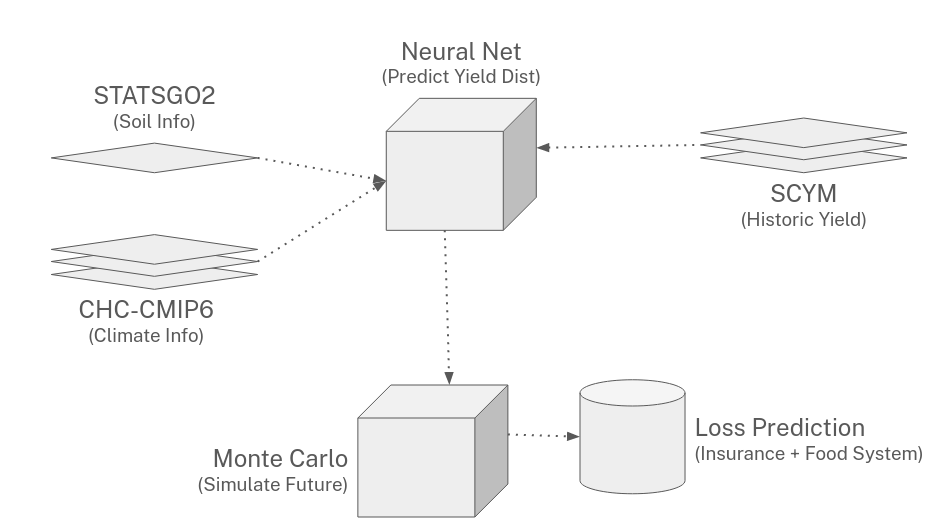
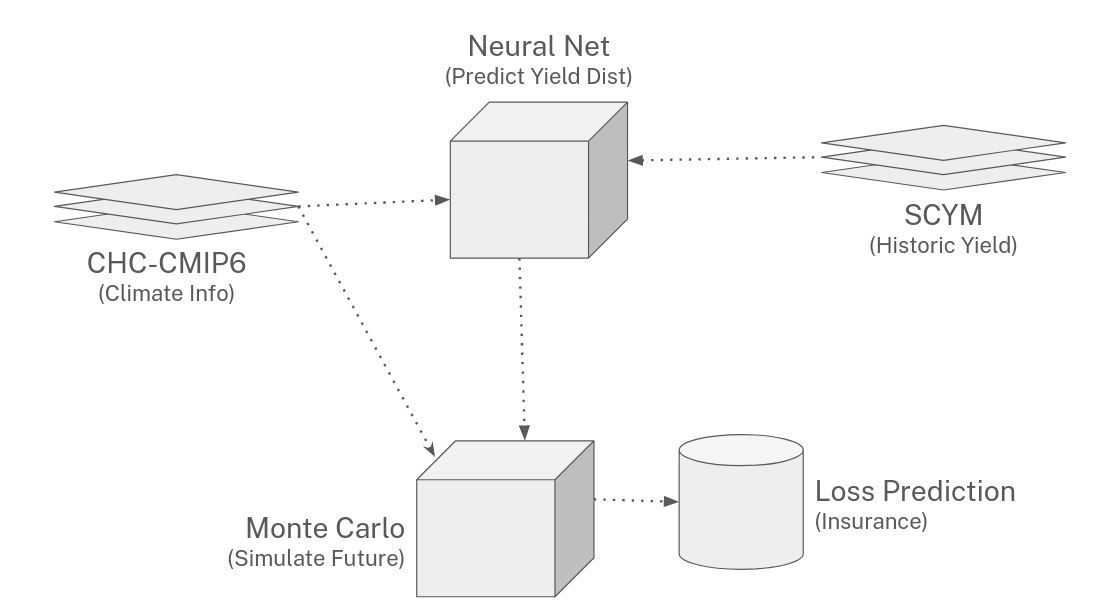
Through intro and background.

diff --git a/paper/viz/index.html b/paper/viz/index.html
@@ -11,7 +11,7 @@
         <link rel="stylesheet" href="/third_party/tabby.css">
         <link rel="stylesheet" href="/third_party/tiny_slider.css">
 
-        <title>Climate-Driven Doubling of Maize Loss Probability in USA Crop Insurance: Spatiotemporal Prediction and Possible Policy Responses</title>
+        <title>Climate Change to Double U.S. Crop Insurance Claims for Maize</title>
 
         <link rel="stylesheet" href="base.css?v=EPOCH">
     </head>
@@ -41,41 +41,98 @@
         </py-config>
 
         <header>
-            <h1>Climate-Driven Doubling of Maize Loss Probability in USA Crop Insurance: Spatiotemporal Prediction and Possible Policy Responses</h1>
+            <h1>Climate Change to Double U.S. Crop Insurance Claims for Maize</h1>
+            <div class="body-text">
+                
+            </div>
         </header>
         
         <nav>
             <ul data-tabs>
-                <li><a data-tabby-default href="#introduction">Introduction</a></li>
+                <li><a data-tabby-default href="#introduction">Intro</a></li>
+                <li><a href="#background">Background</a></li>
                 <li><a href="#methods">Methods</a></li>
                 <li><a href="#results">Results</a></li>
                 <li><a href="#discussion">Discussion</a></li>
                 <li><a href="#conclusion">Conclusion</a></li>
+                <li><a href="#about">About</a></li>
+                <li><a href="#settings">Settings</a></li>
             </ul>
         </nav>
         
         <main class="presentation">
             <section id="introduction">
-                <h2>Introduction</h2>
+                <h2>🌽 Corn is in trouble.</h2>
+                <div class="body-text">
+                    <p>
+                        <span class="emphasis">Climate change threatens the future of corn.</span> Studies expect planet-wide maize yields to drop by up to 24% by the end of this century (<a href="https://www.nature.com/articles/s43016-021-00400-y" target="_blank">Jägermeyr et al. 2021</a>). Why might this happen? Climate change alters growing conditions (<a href="https://www.nature.com/articles/s41597-024-03074-w">Williams et al 2024</a>) and can include a higher frequency and severity of stressful weather (<a href="https://www.nature.com/articles/nclimate1633" target="_blank">Dai 2013</a>). Of course, all of this can impact farmer revenue (<a href="https://farmdocdaily.illinois.edu/2023/07/extreme-heat-and-kansas-farm-income.html" target="_blank">Sajid et al 2023</a>). However, these changes can also challenge the institutions tasked with protecting and helping those growers (<a href="https://farmpolicynews.illinois.edu/2024/02/crop-insurance-costs-projected-to-jump-29/" target="_blank">Hanrahan 2024</a>).
+                    </p>
+                    <p>
+                        <span class="emphasis">What might this future look like and how can we prepare for it?</span> This "explorable explanation" (<a href="http://worrydream.com/ExplorableExplanations/" target="_blank">Victor 2011</a>) walks you through an analysis of future maize yields from the perspective of one of these institutions: the US Federal Crop Insurance Program. This crucial resource for farmers and the broader US food system is increasingly threatened by climate change (<a href="https://www.nature.com/articles/ncomms6989" target="_blank">Ray et al 2015</a>). In this online tool, we will go step by step to build and then play with artifical intelligence to understand how we might respond to these threats:
+
+                        <ul>
+                            <li>We will predict the probability and severity of maize loss within the <a href="https://www.ncei.noaa.gov/access/monitoring/reference-maps/corn-belt" target="_blank">U.S. Corn Belt</a> (<a href="https://www.ncei.noaa.gov/access/monitoring/reference-maps/corn-belt" target="_blank">NCEI</a>) by simulating the Multiple Peril Crop Insurance Program, "the oldest and most common form of federal crop insurance" (<a href="https://www.policyarchive.org/download/4403" target="_blank">Chite 2006</a>).</li>
+                            <li>We will use those results to see how insurer risk will change under the Yield Protection (YP) plan. This covers farmers in the event of yield losses due to an insured cause (<a href="https://farms.extension.wisc.edu/articles/crop-insurance-policy-types/" target="_blank">Reuss</a>).</li>
+                            <li>We will contrast those simulations to an alternative which imagines a future where climate change stops today. This will let us quantitatively highlight the insurer-relevant effects of climate change in the 2030 and 2050 timeframes.</li>
+                            <li>We will use these data to design possible policy changes to help mitigate and enable adaptation to the specific climate-fueled risks we observe in our results.</li>
+                        </ul>
+
+                        You don't need to install any special software. We can do all of this from within your web browser! All that said, this online experience complements a more traditional <a href="">scientific paper (preprint)</a> which you may also review.
+                    </p>
+
+                    <p class="next-button-holder">
+                        <a href="#background" tab="background" class="advance-button">Let's get started >></a>
+                    </p>
+
+                    <details class="citations">
+                        <summary>Citations for intro</summary>
+                        <p>
+                            The citations for the links on this introduction section ("corn is in trouble") are as follows:
+                            <ul>
+                                <li>R. Chite, “Agricultural Issues in the 110th Congress.” Congressional Research Service, Dec. 11, 2006. [Online]. Available: https://www.policyarchive.org/download/4403</li>
+                                <li>A. Dai, “Increasing drought under global warming in observations and models,” Nature Clim Change, vol. 3, no. 1, pp. 52–58, Jan. 2013, doi: 10.1038/nclimate1633.</li>
+                                <li>R. Hanrahan, “Crop Insurance Costs Projected to Jump 29%.” University of Illinois, Feb. 15, 2024. [Online]. Available: https://farmpolicynews.illinois.edu/2024/02/crop-insurance-costs-projected-to-jump-29/</li>
+                                <li>J. Jägermeyr et al., “Climate impacts on global agriculture emerge earlier in new generation of climate and crop models,” Nat Food, vol. 2, no. 11, pp. 873–885, Nov. 2021, doi: 10.1038/s43016-021-00400-y.</li>
+                                <li>NCEI, “Corn Belt.” NOAA, 2024. [Online]. Available: https://www.ncei.noaa.gov/access/monitoring/reference-maps/corn-belt</li>
+                                <li>D. K. Ray, J. S. Gerber, G. K. MacDonald, and P. C. West, “Climate variation explains a third of global crop yield variability,” Nat Commun, vol. 6, no. 1, p. 5989, Jan. 2015, doi: 10.1038/ncomms6989.</li>
+                                <li>S. Reuss, “Crop Insurance Policy Types.” [Online]. Available: https://farms.extension.wisc.edu/articles/crop-insurance-policy-types/</li>
+                                <li>O. Sajid, A. Ortiz-Bobea, J. Ifft, and V. Gauthier, “Extreme Heat and Kansas Farm Income.” Farmdoc Daily of Department of Agricultural and Consumer Economics, University of Illinois at Urbana-Champaign, Jul. 26, 2023. [Online]. Available: https://farmdocdaily.illinois.edu/2023/07/extreme-heat-and-kansas-farm-income.html</li>
+                                <li>B. Victor, “Explorable Explanations.” Bret Victor, Mar. 10, 2011. [Online]. Available: http://worrydream.com/ExplorableExplanations/</li>
+                                <li>E. Williams, C. Funk, P. Peterson, and C. Tuholske, “High resolution climate change observations and projections for the evaluation of heat-related extremes,” Sci Data, vol. 11, no. 1, p. 261, Mar. 2024, doi: 10.1038/s41597-024-03074-w.</li>
+                            </ul>
+                        </p>
+                    </details>
+                </div>
+            </section>
+            <section id="background">
+                <h2>📚 First, some background.</h2>
+                <div class="body-text separated">
+                    Before we build that artifical intelligence, we have to get some background information about crop insurance out of the way. We will also review a diagram describing the model that we will construct. Use the previous and next buttons below to navigate through some short slides with that preliminary walkthrough.
+                </div>
                 <div class="intro-slider">
                     <div>
                         <h3>
                             Some terms:
                         </h3>
+                        <div class="body-text">As with any government program, there are some acronyms. Here is some vocabulary to have in mind as we make our way forward:</div>
                         <div class="block-quote">
                             <ul>
-                                <li><span class="vocab">MPCI</span>: Multi-peril crop insurance. The largest in the US (444 million acres) that typically covers up to 75% of an APH with some areas allowed to cover up to 85%.</li>
-                                <li><span class="vocab">APH</span>: Actual production history. Typically the average of the last ten years of crop yields.</li>
-                                <li><span class="vocab">Catastrophic loss</span>: MPCI loss where the govenment steps in. Typically 25% loss.</li>
-                                <li><span class="vocab">Shallow loss</span>: Other loss which may still (typically) incur a loss. Typically 15% loss.</li>
-                                <li><span class="vocab">508h</span>: Process by which new insurance products can be suggested like supplemental policies covering 85% to 75%.</li>
+                                <li><span class="vocab">MPCI</span>: Multi-peril crop insurance. Covering 494 million acres (<a href="https://www.ers.usda.gov/topics/farm-practices-management/risk-management/crop-insurance-at-a-glance/" target="_blank">Tsiboe and Turner 2023</a>), this is the most common program in the US (<a href="https://www.policyarchive.org/download/4403" target="_blank">Chite 2006</a>) that typically covers up to 75% of an APH with some areas allowed to cover up to 85% (<a href="https://smallgrains.wsu.edu/understanding-the-price-side-of-revenue-crop-insurance/" target="_blank">Osiensky 2021</a>).</li>
+                                <li><span class="vocab">APH</span>: Actual production history. For our purposes, this is the average of the last ten years of crop yields (<a href="https://www.rma.usda.gov/-/media/RMA/Publications/Risk-Management-Publications/rma_glossary.ashx?la=en">FCIC 2020</a>).</li>
+                                <li><span class="vocab">Catastrophic loss</span>: MPCI loss where the govenment typically steps in. Typically 25% loss meaning it kicks in when yields drop below 75% of APH (<a href="https://smallgrains.wsu.edu/understanding-the-price-side-of-revenue-crop-insurance/" target="_blank">Osiensky 2021</a>; <a href="https://www.extension.iastate.edu/agdm/crops/html/a1-44.html" target="_blank">Plastina and Johnson 2022</a>).</li>
+                                <li><span class="vocab">Shallow loss</span>: Other loss which may still incur a claim under other insurance plans. For our purposes, we assume a 15% loss threshold meaning it kicks in when yields drop below 85% of APH (<a href="https://www.extension.iastate.edu/agdm/crops/html/a1-44.html" target="_blank">Plastina and Johnson 2022</a>).</li>
+                                <li><span class="vocab">508h</span>: Process by which new insurance products can be suggested like supplemental policies covering 85% to 75% (<a href="https://farmdocdaily.illinois.edu/2023/03/privately-developed-crop-insurance-products-and-the-next-farm-bill.html" target="_blank">Schnitkey et al 2023</a>).</li>
                             </ul>
                         </div>
+                        <div class="body-text">We are going to focus on catastrophic loss and MPCI for maize and explore what can be done for policy changes either through 508h or by changing the law directly.</div>
                     </div>
                     <div>
                         <h3>
                             Dictated by US Code 1508:
                         </h3>
+                        <div class="body-text">
+                            It's worth mentioning that some of these structures are actually set by US law (<a href="https://uscode.house.gov/view.xhtml?req=(title:7%20section:1508%20edition:prelim)" target="_blank">CFR and USC</a>). For example, here is what we currently have to work with:
+                        </div>
                         <div class="block-quote">
                             the level of coverage ... may be purchased at any level not to exceed 85 percent of the [expected] individual yield ... the yield for a crop shall be based on the actual production history for the crop
                         </div>
@@ -84,30 +141,72 @@
                         <h3>
                             Study's alternative:
                         </h3>
+                        <div class="body-text">
+                            We will build up to this conclusion but what the results we will construct together in a moment may suggest that the law could change to:
+                        </div>
                         <div class="block-quote">
-                            the level of coverage ... may be purchased at any level not to exceed 0.5 standard deviations below the [expected] individual yield ... the yield for a crop shall be based on the actual production history for the crop
+                            the level of coverage ... may be purchased at any level not to exceed 2.1 standard deviations below the [expected] individual yield ... the yield for a crop shall be based on the actual production history for the crop
                         </div>
                     </div>
                     <div>
                         <h3>
                             What this means:
                         </h3>
+                        <div class="body-text">
+                            To understand this change, you can think of MPCI as using a mixture of different information to determine what price a grower pays for a certain amount of coverage (<a href="https://www.extension.iastate.edu/agdm/crops/html/a1-52.html" target="_blank">Plastina and Edwards 2020</a>). Generally, there's some information at the county-level but the APH for a farm being insured can change that price along with other adjustment and subsidies. Right now the horizontal axis that defines how much coverage a grower wants is defined in terms of a percent of APH but we will explore what happens if this is defined by <a href="ttps://www.investopedia.com/terms/s/standarddeviation.asp" target="_blank">standard deviation</a> (<a href="https://www.investopedia.com/terms/s/standarddeviation.asp" target="_blank">Hargrave 2024</a>) where this value is smaller the more stable a grower's yields are.
+                        </div>
                         <div class="diagram">
-                            <img src="/img/policy_abstract.png" alt="Abstracted descsription of a common policy scenario">
+                            <img src="/img/policy_abstract.png" alt="Abstracted description of a common policy scenario">
                         </div>
                     </div>
                     <div>
                         <h3>
                             How we find it:
                         </h3>
+                        <div class="body-text">
+                            We will use a form of AI called a neural network. Modeled after how human brains work, there are different neurons connected to each other. Artifical neural networks in a computer have multiple layers of neurons that learn by example, changing the connections ("weights") between those neurons based on "training" data. For more information see the <a href="https://natureofcode.com/neural-networks/">Nature of Code</a> (<a href="https://natureofcode.com" target="_blank">Shiffman 2024</a>). Regardless, we will feed in information on historic growing conditions using data from a data product called CHC-CMIP6 (<a href="https://www.nature.com/articles/s41597-024-03074-w">Williams et al 2024</a>) and the resulting maize yields as estimated by a model called SCYM (<a href="https://linkinghub.elsevier.com/retrieve/pii/S0034425715001637" target="_blank">Lobell et al 2015</a>). Then, we will use climate projections from CHC-CMIP6 (<a href="https://www.nature.com/articles/s41597-024-03074-w">Williams et al 2024</a>) to predict what future yields might look like. Finally, we will simulate the MPCI through a method called Monte Carlo (<a href="https://towardsdatascience.com/monte-carlo-simulation-a-practical-guide-85da45597f0e" target="_blank">Kwiatkowski 2022</a>).
+                        </div>
                         <div class="diagram">
                             <img src="/img/diagram.png" alt="Data flow diagram">
                         </div>
                     </div>
+                    <div>
+                        <h3>
+                            You are ready.
+                        </h3>
+                        <div class="body-text">
+                            <p class="next-button-holder">
+                                <a href="#method" tab="method" class="advance-button">Train a neural network >></a>
+                            </p>
+                        </div>
+                    </div>
+                </div>
+                <div class="body-text">
+                    <details class="citations">
+                        <summary>Citations for background</summary>
+                        <p>
+                            The citations for the links on this background section ("first, some background") are as follows:
+                            <ul>
+                                <li>CFR and USC, Crop insurance. [Online]. Available: https://uscode.house.gov/view.xhtml?req=(title:7%20section:1508%20edition:prelim)</li>
+                                <li>R. Chite, “Agricultural Issues in the 110th Congress.” Congressional Research Service, Dec. 11, 2006. [Online]. Available: https://www.policyarchive.org/download/4403</li>
+                                <li>FCIC, “Common Crop Insurance Policy 21.1-BR.” United States Department of Agriculture, Nov. 2020. [Online]. Available: https://www.rma.usda.gov/-/media/RMA/Publications/Risk-Management-Publications/rma_glossary.ashx?la=en</li>
+                                <li>M. Hargrave, “Standard Deviation Formula and Uses vs. Variance.” Investopedia, May 23, 2024. [Online]. Available: https://www.investopedia.com/terms/s/standarddeviation.asp</li>
+                                <li>R. Kwiatkowski, “Monte Carlo Simulation — a practical guide.” Jan. 30, 2022. [Online]. Available: https://towardsdatascience.com/monte-carlo-simulation-a-practical-guide-85da45597f0e</li>
+                                <li>D. B. Lobell, D. Thau, C. Seifert, E. Engle, and B. Little, “A scalable satellite-based crop yield mapper,” Remote Sensing of Environment, vol. 164, pp. 324–333, Jul. 2015, doi: 10.1016/j.rse.2015.04.021.</li>
+                                <li>J. Osiensky, “Understanding the Price Side of Revenue Crop Insurance.” Washington State University, Aug. 19, 2021. [Online]. Available: https://smallgrains.wsu.edu/understanding-the-price-side-of-revenue-crop-insurance/</li>
+                                <li>A. Plastina and W. Edwards, “Yield Protection Crop Insurance.” Iowa State University Extension and Outreach, Dec. 2020. [Online]. Available: https://www.extension.iastate.edu/agdm/crops/html/a1-52.html</li>
+                                <li>A. Plastina and S. Johnson, “Supplemental Coverage Option (SCO) and Enhanced Coverage Option (ECO).” Iowa State University Extension and Outreach, Oct. 2022. [Online]. Available: https://www.extension.iastate.edu/agdm/crops/html/a1-44.html</li>
+                                <li>G. Schnitkey, N. Paulson, and C. Zulauf, “Privately Developed Crop Insurance Products and the Next Farm Bill.” Unviersity of Illinois, Mar. 14, 2023. [Online]. Available: https://farmdocdaily.illinois.edu/2023/03/privately-developed-crop-insurance-products-and-the-next-farm-bill.html</li>
+                                <li>D. Shiffman, The nature of code: simulating natural systems with JavaScript. San Francisco: No Starch Press, 2024.</li>
+                                <li>F. Tsiboe and D. Turner, “Crop Insurance at a Glance.” Economic Research Service, USDA, May 03, 2023. [Online]. Available: https://www.ers.usda.gov/topics/farm-practices-management/risk-management/crop-insurance-at-a-glance/</li>
+                                <li>E. Williams, C. Funk, P. Peterson, and C. Tuholske, “High resolution climate change observations and projections for the evaluation of heat-related extremes,” Sci Data, vol. 11, no. 1, p. 261, Mar. 2024, doi: 10.1038/s41597-024-03074-w.</li>
+                            </ul>
+                        </p>
+                    </details>
                 </div>
             </section>
             <section id="methods">
-                <h2>Methods</h2>
+                <h2>✨ Next, a neural network.</h2>
                 <div class="interactive">
                     <div class="app-intro">
                         <div class="instruction">This section contains interactive components. It will take just a moment to load the data.</div>
@@ -124,7 +223,7 @@
                 </div>
             </section>
             <section id="results">
-                <h2>Results</h2>
+                <h2>🔭 Let's explore what we predicted.</h2>
                 <div class="interactive">
                     <div class="app-intro">
                         <div class="instruction">This section contains interactive components. It will take just a moment to load the data.</div>
@@ -141,7 +240,7 @@
                 </div>
             </section>
             <section id="discussion">
-                <h2>Discussion</h2>
+                <h2>📝 How we might address these problems?</h2>
                 <div class="interactive">
                     <div class="app-intro">
                         <div class="instruction">This section contains interactive components. It will take just a moment to load the data.</div>
@@ -158,7 +257,7 @@
                 </div>
             </section>
             <section id="conclusion">
-                <h2>Conclusion</h2>
+                <h2>💡 What does this all mean?</h2>
                 <div class="interactive">
                     <div class="app-intro">
                         <div class="instruction">This section contains interactive components. It will take just a moment to load the data.</div>
@@ -173,6 +272,20 @@
                     </div>
                     <div>Visualization that explores how using mean and standard deviation influences different behavior. Which kinds of growing patterns does each seem to encourage?</div>
                 </div>
+            </section>
+            <section id="about">
+                <h2>ℹ About this interactive.</h2>
+                <div class="body-text">
+                    <details>
+                        <summary>Scientific abstract</summary>
+                        <p>
+                            To understand the impacts of climate change on agriculture, sophisticated predictive models build detailed projections from historic observations spanning many spatiotemporal variables. These crucial forecasts inform institutions such as government entities tasked with insuring grower livelihoods and supporting response to continued global warming. To help these decision makers engage these complex and often opaque predictive systems, our web-based open-source explorable explanation guides scientists, producers, policy makers, and other stakeholders through a data science pipeline in which an artificial neural network predicts future maize yields in the U.S. Corn Belt. Furthermore, after manipulating underlying assumptions and observing how changes impact model behavior, readers iteratively refine regulatory structures to confront a calamitous doubling in Yield Protection losses predicted at mid-century. Supported through game design principles of loop-based interaction and juxtaposition gratification, this experience not only explains AI mechanics and the specific shape of threats confronting the food system but also invites readers to experiment with different legal structures which may influence those outcomes. Altogether, supporting learning model mechanics before fostering play to refine regulation, these visualizations allow users to build understanding of crop insurance and predictive AI while supporting design of important policy structures needed for climate change adaptation.
+                        </p>
+                    </details>
+                </div>
+            </section>
+            <section id="settings">
+                <h2>⚙ Configure settings.</h2>
             </section>
         </main>
     </body>

diff --git a/paper/viz/base.css b/paper/viz/base.css
@@ -104,14 +104,28 @@ th, td {
     border: 1px solid #A0A0A0;
     border-radius: 5px;
     padding: 5px;
-    margin: 15px 5px;
+    margin: 15px 10px;
     text-align: left;
     color: #505050;
+}
+
+.body-text {
+    text-align: left;
+}
+
+.body-text.separated {
+    border-bottom: 1px dotted #A0A0A0;
+    margin-bottom: 30px;
+    padding-bottom: 10px;
 }
 
 .bottom-section {
     margin-top: 25px;
     padding-bottom: 25px;
+}
+
+.citations {
+    margin-top: 30px;
 }
 
 .csl-entry {
@@ -135,6 +149,10 @@ th, td {
 .diagram img {
     min-width: 50%;
     max-width: 90%;
+}
+
+.emphasis {
+    font-weight: bold;
 }
 
 .inline-header {
@@ -164,6 +182,23 @@ th, td {
     border-bottom: 1px dotted #555555;
     margin-top: 25px;
     padding-bottom: 25px;
+}
+
+.next-button-holder {
+    text-align: center;
+    margin-top: 20px;
+}
+
+.next-button-holder a {
+    padding: 5px;
+    background-color: #5050C0;
+    color: white;
+    border-radius: 5px;
+    text-decoration: none;
+}
+
+.next-button-holder a:hover {
+    text-decoration: underline;
 }
 
 .presentation {

diff --git a/paper/viz/driver.js b/paper/viz/driver.js
@@ -47,6 +47,11 @@ function main() {
 
     const loadLinks = document.querySelectorAll(".load-app-link");
     loadLinks.forEach((x) => x.addEventListener("click", openWebApp));
+
+    const advanceLinks = document.querySelectorAll(".advance-button");
+    advanceLinks.forEach((x) => x.addEventListener("click", (event) => {
+        tabs.toggle(x.getAttribute("tab"));
+    }));
 }
 
 
